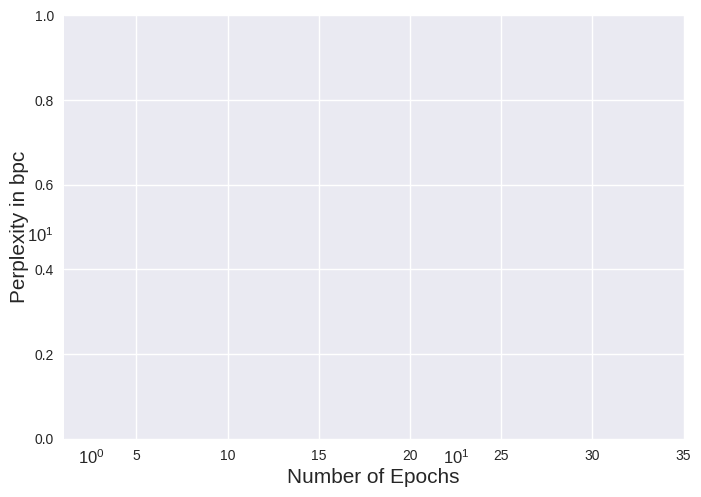
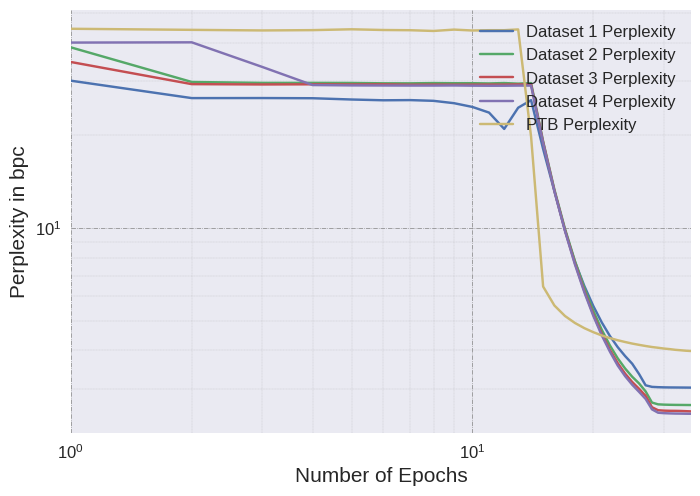
Up

diff --git a/LSTM_log/LSTM_plot_data.py b/LSTM_log/LSTM_plot_data.py
@@ -18,14 +18,14 @@ with plt.style.context(('seaborn')):
     plt.loglog(np.arange(1,len(y4)+1), y4, label='Dataset 4 Perplexity')
     plt.loglog(np.arange(1,len(y5)+1), y5, label='PTB Perplexity')
 
-    # plt.tick_params(labelsize='large', width=5)
-    # plt.grid(True)
-    # plt.grid(which='major', linestyle='-.', linewidth='0.5', color='grey')
-    # plt.grid(which='minor', linestyle=':', linewidth='0.2', color='grey')
-    # ax = plt.axes()
-    # ax.set_xlim(1, len(y1))
-    # ax.set_xlabel('Number of Epochs', fontsize=15)
-    # ax.set_ylabel('Perplexity in bpc', fontsize=15)
-    # lgd = ax.legend(loc='upper right', shadow=True, fancybox=True, ncol=1, numpoints=1) 
-    # plt.savefig('lstm_perplexity', bbox_extra_artists=(lgd,), bbox_inches='tight')
+    plt.tick_params(labelsize='large', width=5)
+    plt.grid(True)
+    plt.grid(which='major', linestyle='-.', linewidth='0.5', color='grey')
+    plt.grid(which='minor', linestyle=':', linewidth='0.2', color='grey')
+    ax = plt.axes()
+    ax.set_xlim(1, len(y1))
+    ax.set_xlabel('Number of Epochs', fontsize=15)
+    ax.set_ylabel('Perplexity in bpc', fontsize=15)
+    lgd = ax.legend(loc='upper right', shadow=True, fancybox=True, ncol=1, numpoints=1, prop={'size': 12})
+    plt.savefig('lstm_perplexity', bbox_extra_artists=(lgd,), bbox_inches='tight')
     plt.show()
